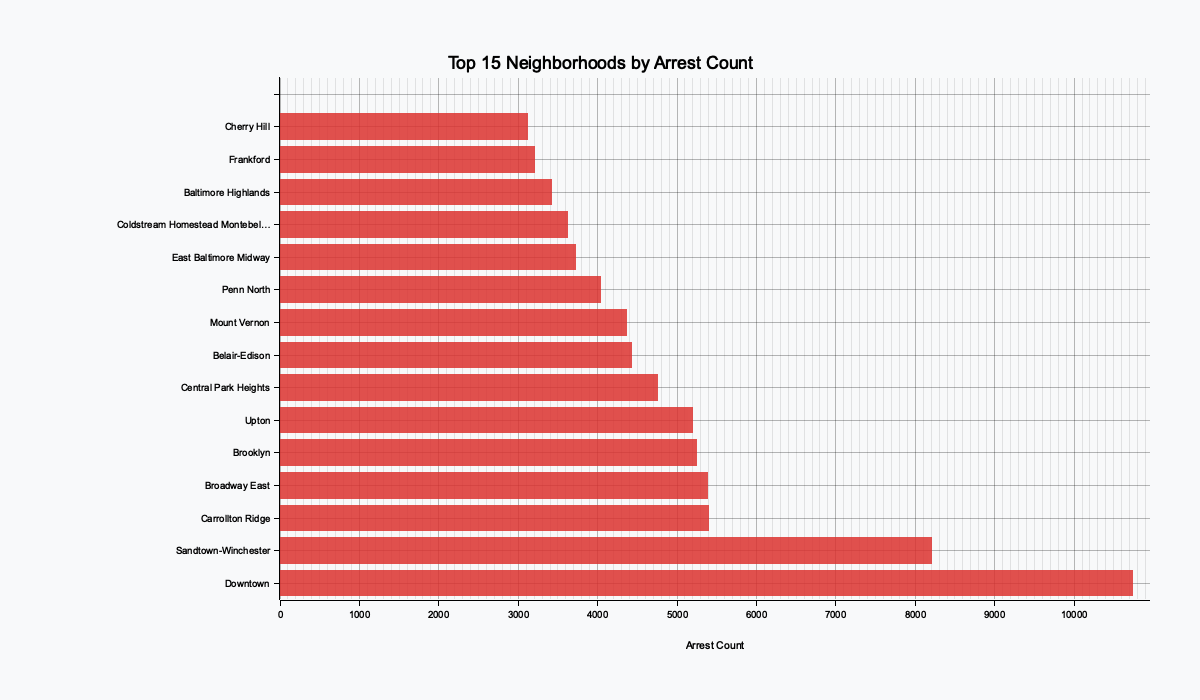
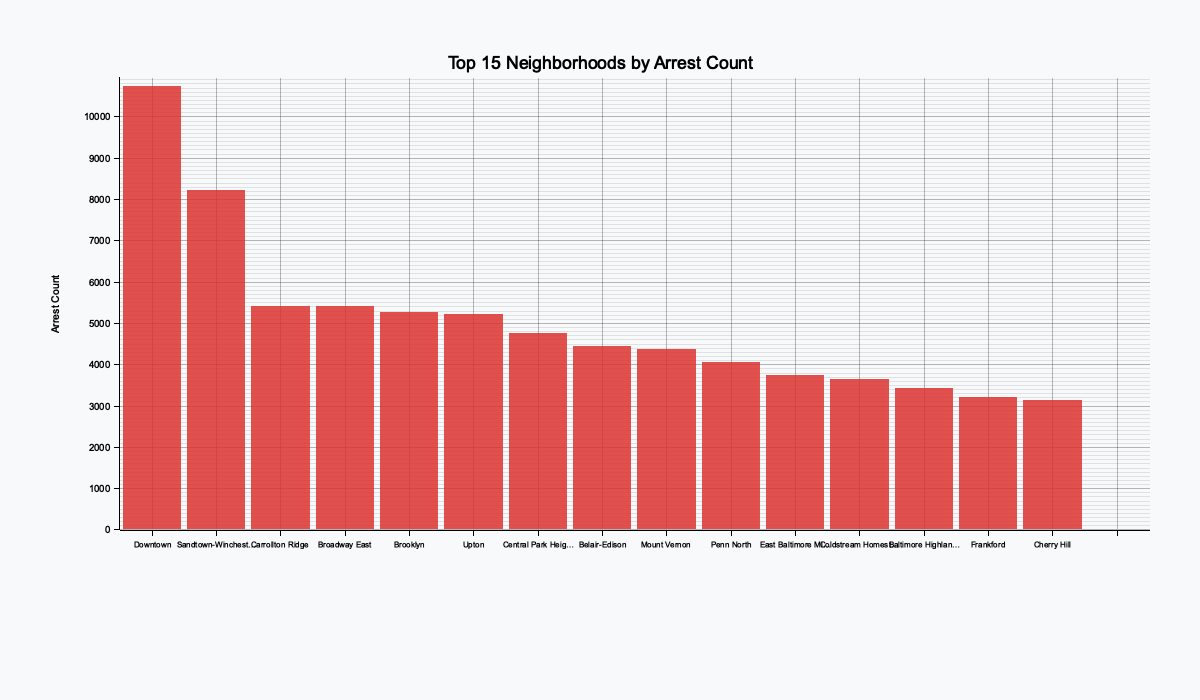
Update charts: vertical bars and spacing fixes

diff --git a/aditya_poudel/project09/src/charts.rs b/aditya_poudel/project09/src/charts.rs
@@ -82,7 +82,7 @@ pub fn scatter_vacants_vs_arrests(
     Ok(())
 }
 
-/// Chart 2 — Horizontal bar: top N neighborhoods by vacancy count
+/// Chart 2 — Vertical bar: top N neighborhoods by vacancy count
 pub fn bar_top_vacancies(
     stats: &[NeighborhoodStats],
     path: &str,
@@ -100,18 +100,22 @@ pub fn bar_top_vacancies(
             ("sans-serif", 22).into_font(),
         )
         .margin(50)
-        .x_label_area_size(50)
-        .y_label_area_size(230)
-        .build_cartesian_2d(0u32..max_val, (0..data.len()).into_segmented())?;
+        .x_label_area_size(120)
+        .y_label_area_size(70)
+        .build_cartesian_2d(
+            (0..data.len()).into_segmented(),
+            0u32..max_val,
+        )?;
 
     chart.configure_mesh()
-        .x_desc("Vacant Building Notices")
+        .y_desc("Vacant Building Notices")
         .axis_desc_style(("sans-serif", 13))
-        .y_labels(data.len())
-        .y_label_formatter(&|idx| {
+        .x_labels(data.len())
+        .x_label_style(("sans-serif", 10))
+        .x_label_formatter(&|idx| {
             if let SegmentValue::CenterOf(i) = idx {
                 data.get(*i)
-                    .map(|s| truncate(&s.neighborhood, 30))
+                    .map(|s| truncate(&s.neighborhood, 18))
                     .unwrap_or_default()
             } else { String::new() }
         })
@@ -119,10 +123,10 @@ pub fn bar_top_vacancies(
 
     chart.draw_series(data.iter().enumerate().map(|(i, s)| {
         let mut bar = Rectangle::new(
-            [(0, SegmentValue::Exact(i)), (s.vacant_count as u32, SegmentValue::Exact(i + 1))],
+            [(SegmentValue::Exact(i), 0), (SegmentValue::Exact(i + 1), s.vacant_count as u32)],
             RGBColor(255, 140, 0).mix(0.85).filled(),
         );
-        bar.set_margin(3, 3, 0, 0);
+        bar.set_margin(0, 0, 3, 3);
         bar
     }))?;
 
@@ -130,7 +134,7 @@ pub fn bar_top_vacancies(
     Ok(())
 }
 
-/// Chart 3 — Horizontal bar: top N neighborhoods by arrest count
+/// Chart 3 — Vertical bar: top N neighborhoods by arrest count
 pub fn bar_top_arrests(
     stats: &[NeighborhoodStats],
     path: &str,
@@ -150,18 +154,22 @@ pub fn bar_top_arrests(
             ("sans-serif", 22).into_font(),
         )
         .margin(50)
-        .x_label_area_size(50)
-        .y_label_area_size(230)
-        .build_cartesian_2d(0u32..max_val, (0..data.len()).into_segmented())?;
+        .x_label_area_size(120)
+        .y_label_area_size(70)
+        .build_cartesian_2d(
+            (0..data.len()).into_segmented(),
+            0u32..max_val,
+        )?;
 
     chart.configure_mesh()
-        .x_desc("Arrest Count")
+        .y_desc("Arrest Count")
         .axis_desc_style(("sans-serif", 13))
-        .y_labels(data.len())
-        .y_label_formatter(&|idx| {
+        .x_labels(data.len())
+        .x_label_style(("sans-serif", 10))
+        .x_label_formatter(&|idx| {
             if let SegmentValue::CenterOf(i) = idx {
                 data.get(*i)
-                    .map(|s| truncate(&s.neighborhood, 30))
+                    .map(|s| truncate(&s.neighborhood, 18))
                     .unwrap_or_default()
             } else { String::new() }
         })
@@ -169,10 +177,10 @@ pub fn bar_top_arrests(
 
     chart.draw_series(data.iter().enumerate().map(|(i, s)| {
         let mut bar = Rectangle::new(
-            [(0, SegmentValue::Exact(i)), (s.arrest_count as u32, SegmentValue::Exact(i + 1))],
+            [(SegmentValue::Exact(i), 0), (SegmentValue::Exact(i + 1), s.arrest_count as u32)],
             RGBColor(220, 50, 47).mix(0.85).filled(),
         );
-        bar.set_margin(3, 3, 0, 0);
+        bar.set_margin(0, 0, 3, 3);
         bar
     }))?;
 
